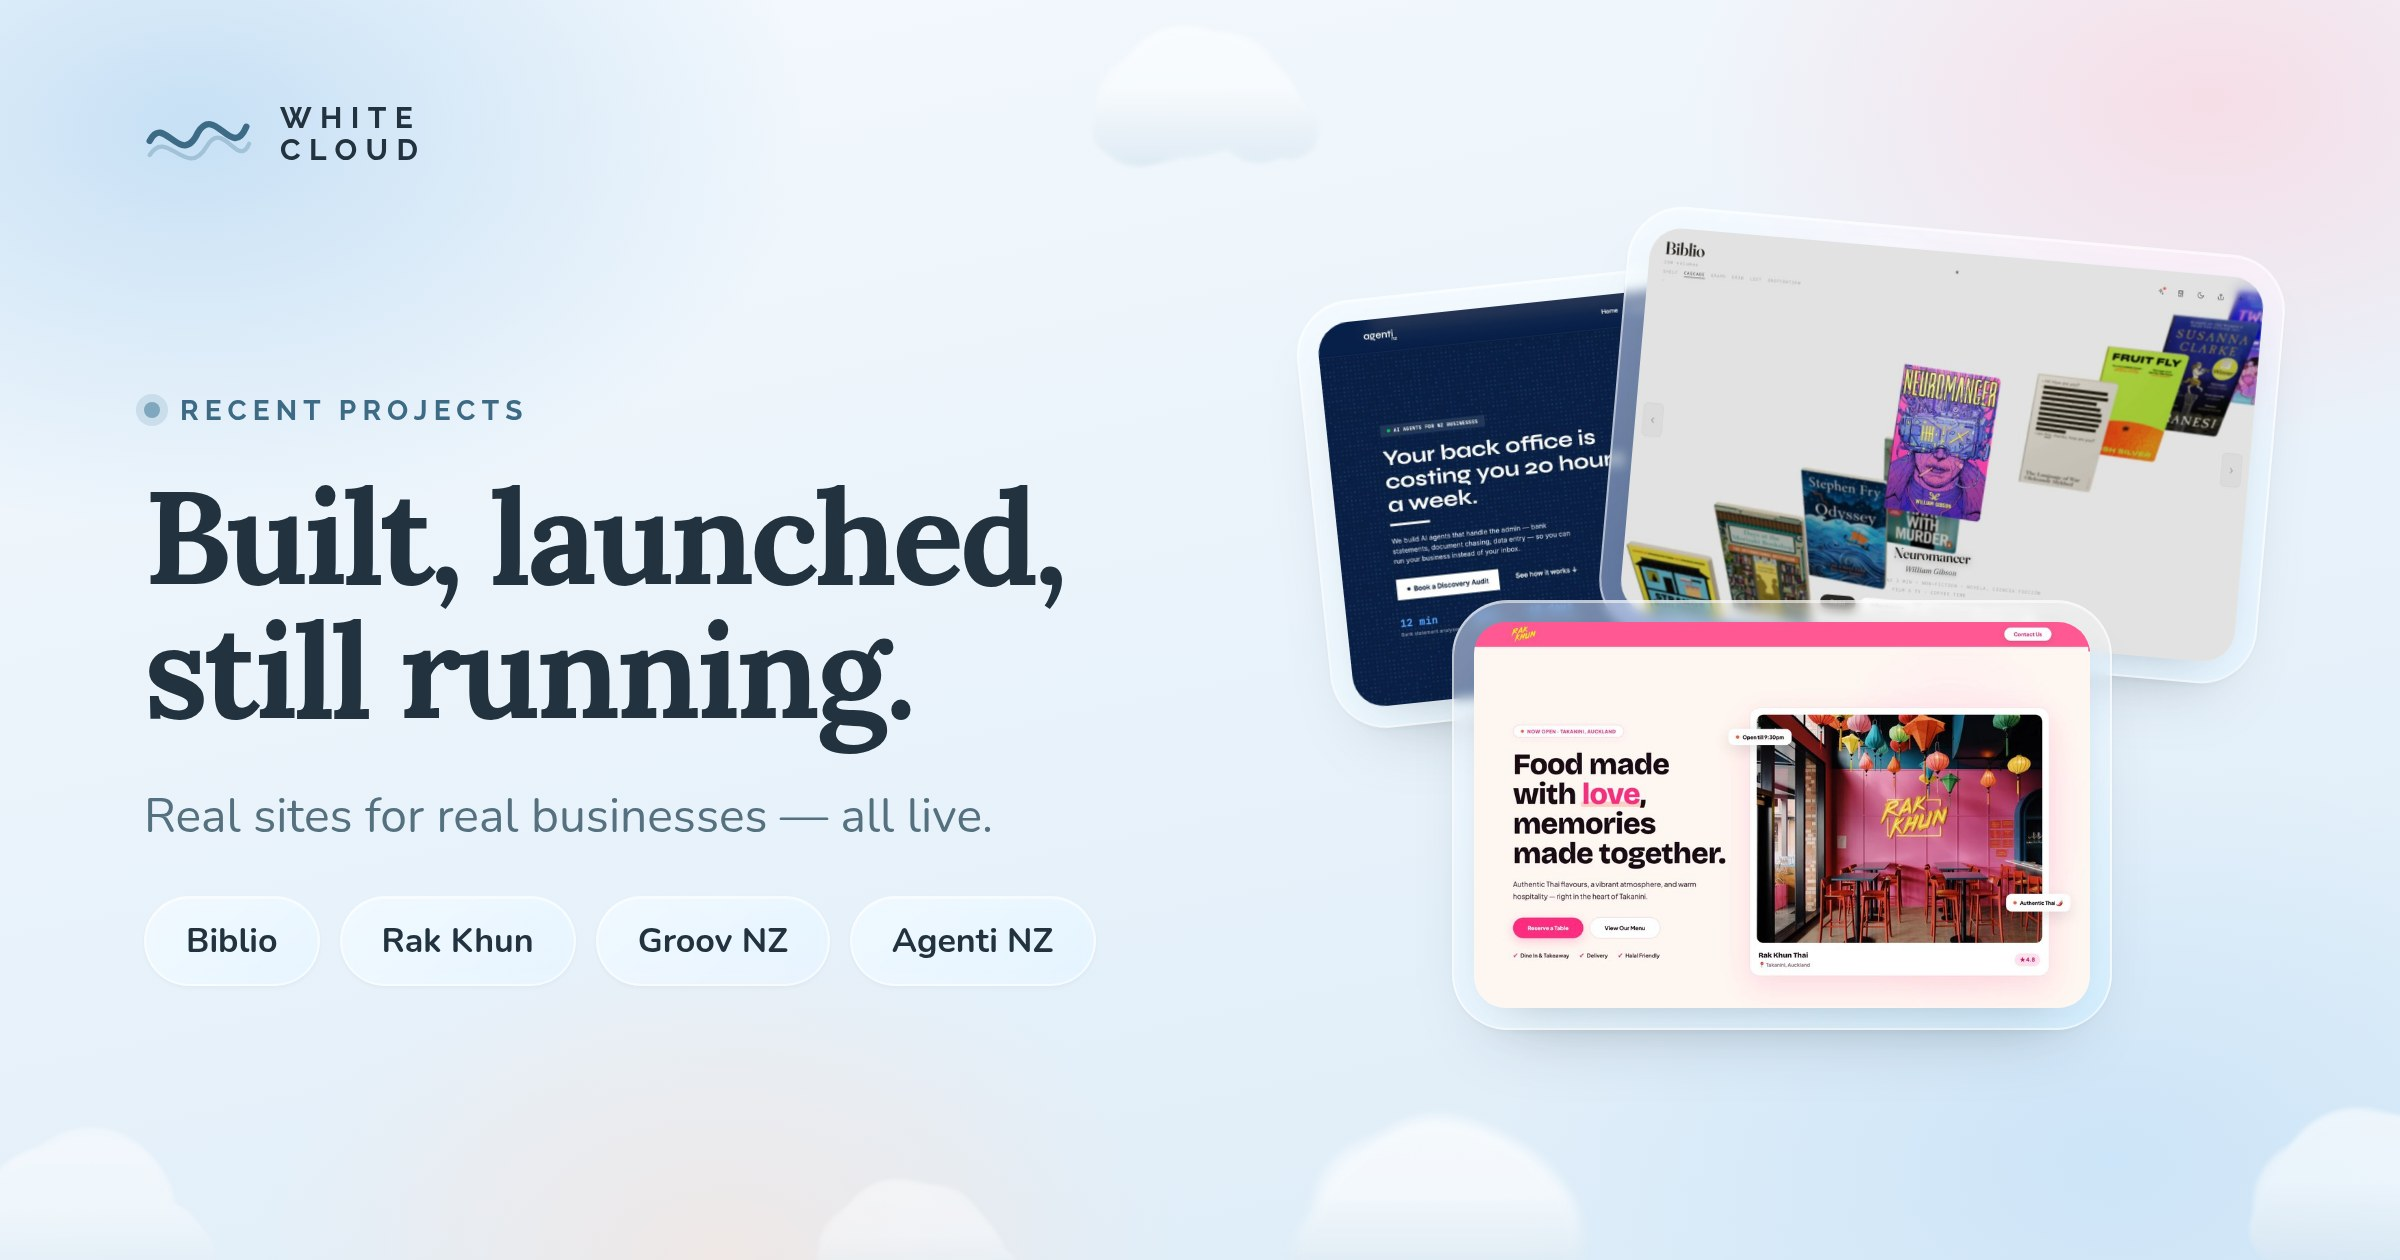
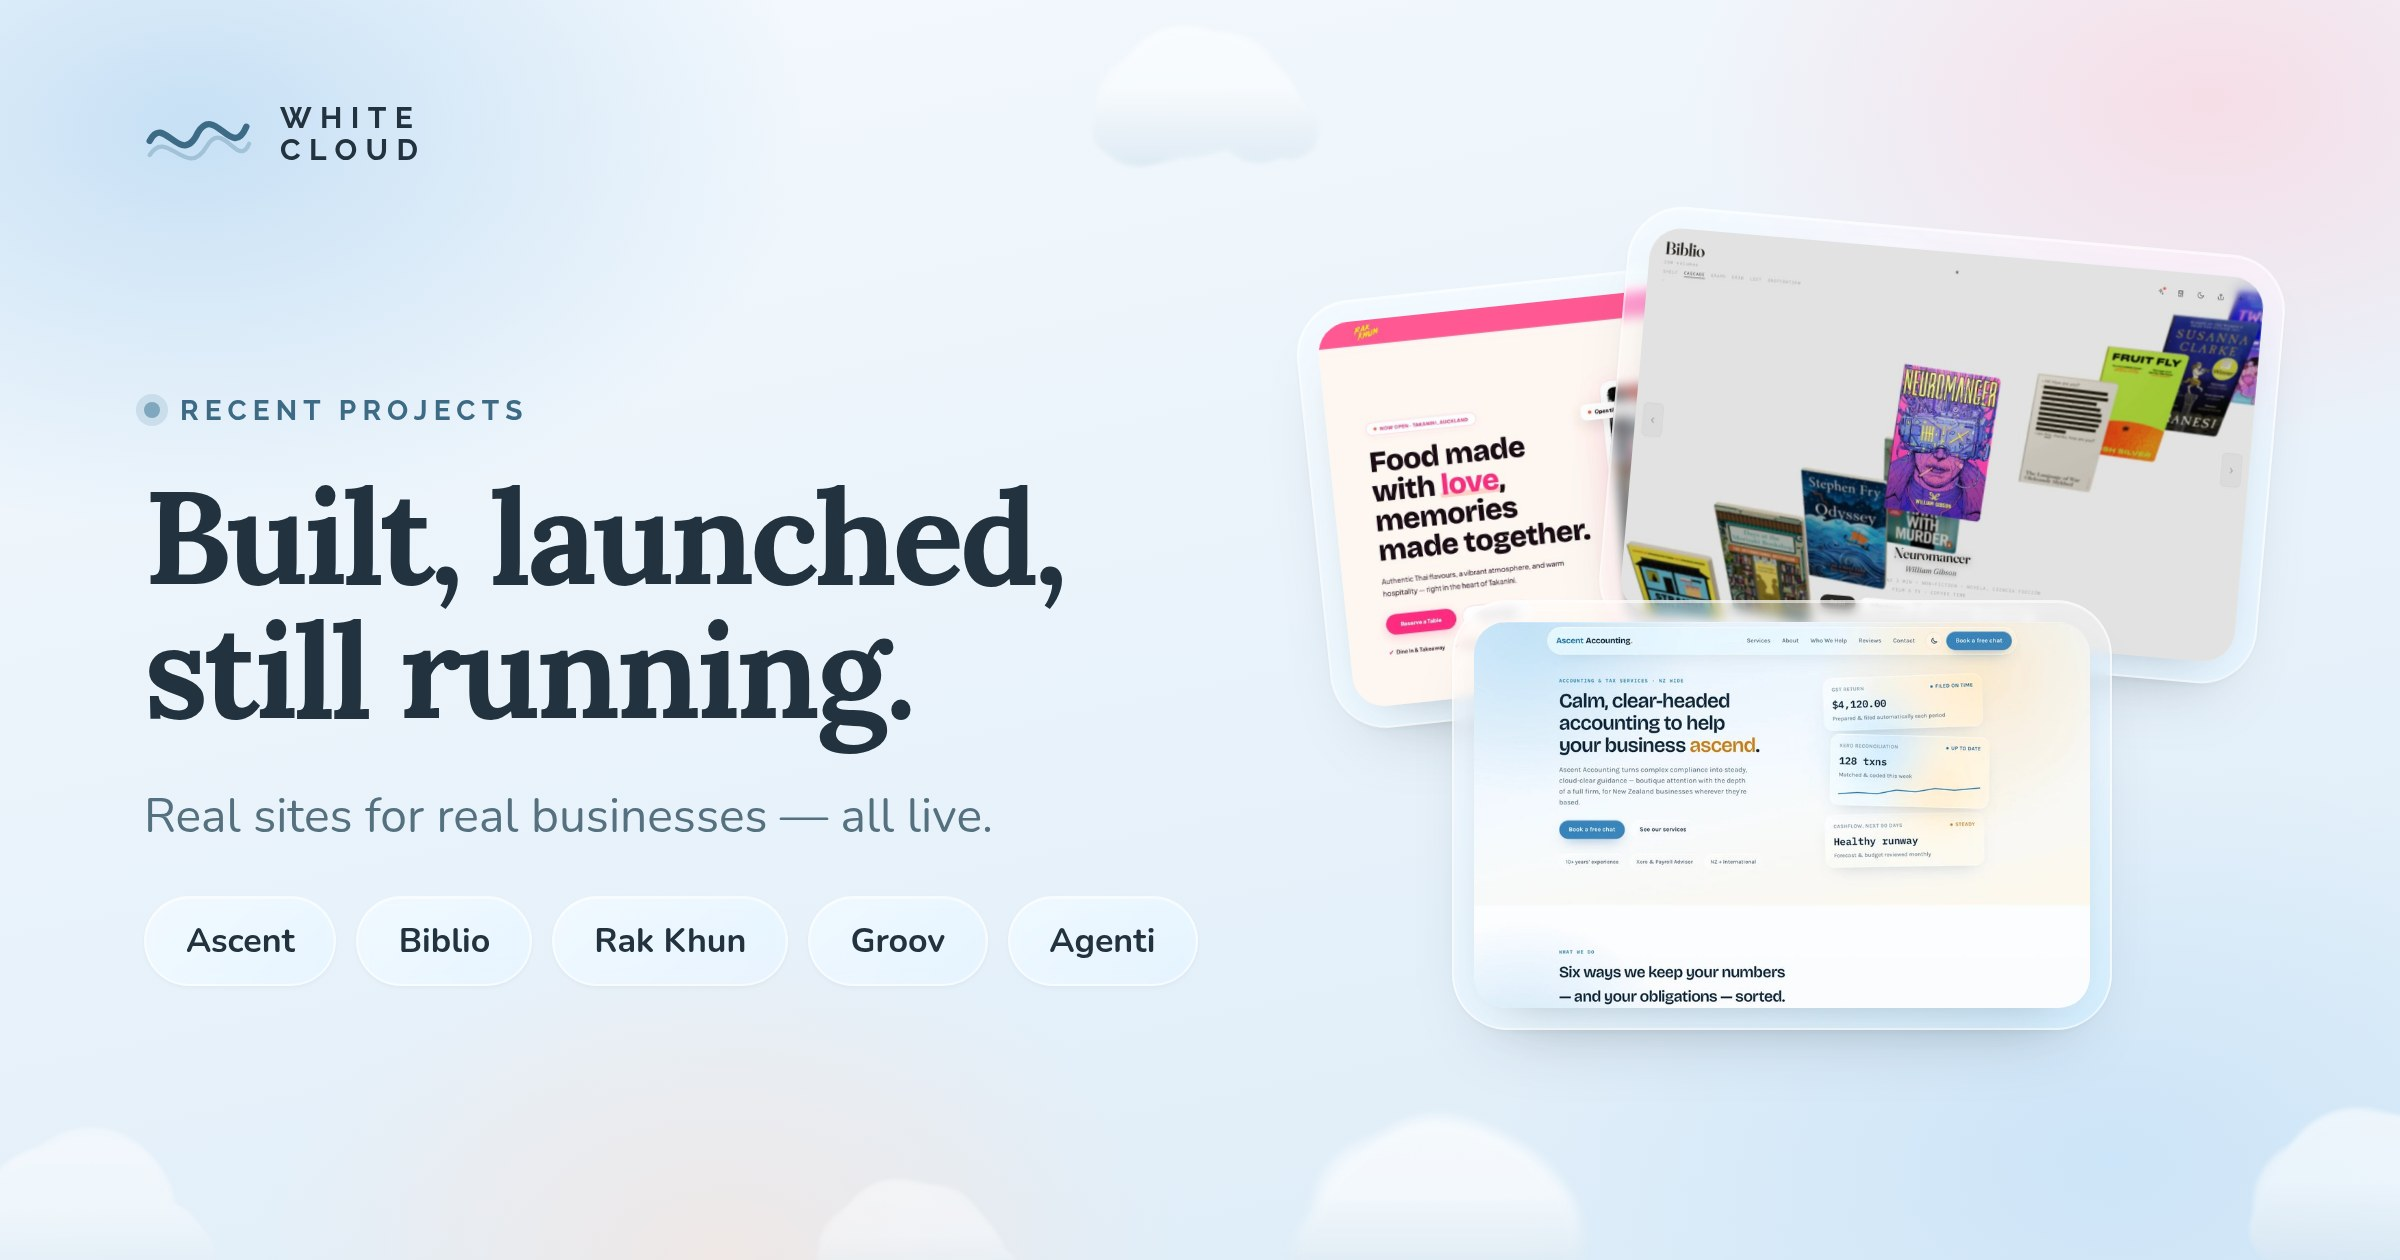
Add Ascent Accounting as the featured newest project
Full-width featured card at the top of /projects, plus Ascent on the
projects share card.

Claude-Session: https://claude.ai/code/session_01SSGazEJT8798JFiYTgjDCn

diff --git a/projects.html b/projects.html
@@ -9,17 +9,17 @@
 <meta property="og:type"        content="website">
 <meta property="og:url"         content="https://wcloud.nz/projects">
 <meta property="og:title"       content="Projects | White Cloud">
-<meta property="og:description" content="Websites, apps, online stores and brand systems built by White Cloud in Christchurch, all live. Biblio, Rak Khun Thai Eatery, Groov NZ and Agenti NZ.">
-<meta property="og:image"       content="https://wcloud.nz/og-projects.jpg">
+<meta property="og:description" content="Websites, apps, online stores and brand systems built by White Cloud in Christchurch, all live. Ascent Accounting, Biblio, Rak Khun Thai Eatery, Groov NZ and Agenti NZ.">
+<meta property="og:image"       content="https://wcloud.nz/og-projects.jpg?v=2">
 <meta property="og:image:type"  content="image/jpeg">
 <meta property="og:image:width" content="2400">
 <meta property="og:image:height" content="1260">
 <meta name="twitter:card"        content="summary_large_image">
 <meta name="twitter:title"       content="Projects | White Cloud">
-<meta name="twitter:description" content="Websites, apps, online stores and brand systems built by White Cloud in Christchurch, all live. Biblio, Rak Khun Thai Eatery, Groov NZ and Agenti NZ.">
-<meta name="twitter:image"       content="https://wcloud.nz/og-projects.jpg">
+<meta name="twitter:description" content="Websites, apps, online stores and brand systems built by White Cloud in Christchurch, all live. Ascent Accounting, Biblio, Rak Khun Thai Eatery, Groov NZ and Agenti NZ.">
+<meta name="twitter:image"       content="https://wcloud.nz/og-projects.jpg?v=2">
 
-<meta name="description" content="Websites, apps, online stores and brand systems built by White Cloud in Christchurch, all live. Biblio, Rak Khun Thai Eatery, Groov NZ and Agenti NZ.">
+<meta name="description" content="Websites, apps, online stores and brand systems built by White Cloud in Christchurch, all live. Ascent Accounting, Biblio, Rak Khun Thai Eatery, Groov NZ and Agenti NZ.">
 <link rel="canonical" href="https://wcloud.nz/projects">
 
 <link rel="preconnect" href="https://fonts.googleapis.com">
@@ -84,7 +84,17 @@
   .pj-cta p { color: rgba(255,255,255,.72); max-width: 48ch; }
   .pj-cta .btns { display: flex; gap: .8rem; flex-wrap: wrap; justify-content: center; margin-top: .4rem; }
 
+  /* The newest project runs the full width: screenshot left, story right. */
+  .proj-feat { grid-column: 1 / -1; display: grid; grid-template-columns: 1.35fr 1fr; gap: 1rem; align-items: center; }
+  .proj-feat .proj-body { padding: 1rem 1.4rem; }
+  .proj-feat h3 { font-size: clamp(1.5rem, 2.6vw, 2rem); }
+  .proj-feat p { font-size: 1rem; }
+
   @media (max-width: 900px) {
+    .proj-feat { grid-template-columns: 1fr; gap: 0; }
+    .proj-feat .proj-body { padding: 1.2rem .7rem .6rem; }
+    .proj-feat h3 { font-size: clamp(1.25rem, 2vw, 1.55rem); }
+    .proj-feat p { font-size: .95rem; }
     .pj-hero { padding-block: 7rem 2.5rem; }
     .proj-grid { grid-template-columns: 1fr; }
   }
@@ -147,6 +157,17 @@
   <section class="pj-band">
       <div class="proj-grid">
 
+        <a class="proj proj-feat glass" href="https://ascentaccounting.co.nz" target="_blank" rel="noopener">
+          <div class="proj-shot"><img src="/assets/ascent-preview.jpg" alt="Ascent Accounting website" loading="lazy" width="1600" height="1005"></div>
+          <div class="proj-body">
+            <span class="proj-tag">Newest &middot; Accounting &amp; tax firm</span>
+            <h3>Ascent Accounting</h3>
+            <p>A calm, clear website for a boutique accounting and tax practice working with businesses right across New Zealand &mdash; light glass panels, a dark mode, and at-a-glance cards for GST, Xero and cashflow that show what the firm does before a word is read.</p>
+            <span class="proj-go">ascentaccounting.co.nz <svg viewBox="0 0 24 24" fill="none" stroke-width="2.2" stroke-linecap="round" stroke-linejoin="round"><path d="M7 17L17 7M9 7h8v8"/></svg></span>
+          </div>
+        </a>
+
+
         <a class="proj glass" href="https://biblio.ink" target="_blank" rel="noopener">
           <div class="proj-shot"><img src="/assets/biblio-preview.jpg" alt="Biblio, a 3D bookshelf web and iOS app" loading="lazy" width="1600" height="1005"></div>
           <div class="proj-body">
@@ -159,7 +180,7 @@
         </a>
 
         <a class="proj glass" href="https://rakkhun.co.nz" target="_blank" rel="noopener">
-          <div class="proj-shot"><img src="/assets/rakkhun-preview.jpg" alt="Rak Khun Thai Eatery and Bar website" loading="lazy" width="1600" height="1004"></div>
+          <div class="proj-shot"><img src="/assets/rakkhun-preview.jpg" alt="Rak Khun Thai Eatery and Bar website" loading="lazy" width="1600" height="1005"></div>
           <div class="proj-body">
             <span class="proj-tag">Restaurant &middot; full rebuild</span>
             <h3>Rak Khun Thai Eatery &amp; Bar</h3>
@@ -181,7 +202,7 @@
         </a>
 
         <a class="proj glass" href="https://agenti.nz" target="_blank" rel="noopener">
-          <div class="proj-shot"><img src="/assets/agenti-preview.jpg" alt="Agenti NZ brand and design system" loading="lazy" width="1600" height="1004"></div>
+          <div class="proj-shot"><img src="/assets/agenti-preview.jpg" alt="Agenti NZ brand and design system" loading="lazy" width="1600" height="1005"></div>
           <div class="proj-body">
             <span class="proj-tag">Brand &amp; design system</span>
             <h3>Agenti NZ</h3>

diff --git a/og-cards.html b/og-cards.html
@@ -330,11 +330,11 @@
     <div class="copy">
       <span class="eyebrow">Recent projects</span>
       <h1 class="">Built, launched, still running.</h1>
-      <p class="sub">Real sites for real businesses &mdash; all live.</p><div class="chips"><span class="chip glass">Biblio</span><span class="chip glass">Rak Khun</span><span class="chip glass">Groov NZ</span><span class="chip glass">Agenti NZ</span></div>
+      <p class="sub">Real sites for real businesses &mdash; all live.</p><div class="chips"><span class="chip glass">Ascent</span><span class="chip glass">Biblio</span><span class="chip glass">Rak Khun</span><span class="chip glass">Groov</span><span class="chip glass">Agenti</span></div>
     </div>
-    <div class="right"><div class="fan"><div class="tile glass a"><div class="shot"><img src="/assets/agenti-preview-900.jpg" alt=""></div></div>
+    <div class="right"><div class="fan"><div class="tile glass a"><div class="shot"><img src="/assets/rakkhun-preview-900.jpg" alt=""></div></div>
      <div class="tile glass b"><div class="shot"><img src="/assets/biblio-preview-900.jpg" alt=""></div></div>
-     <div class="tile glass c"><div class="shot"><img src="/assets/rakkhun-preview-900.jpg" alt=""></div></div></div></div>
+     <div class="tile glass c"><div class="shot"><img src="/assets/ascent-preview-900.jpg" alt=""></div></div></div></div>
   </div>
 </div>
 
